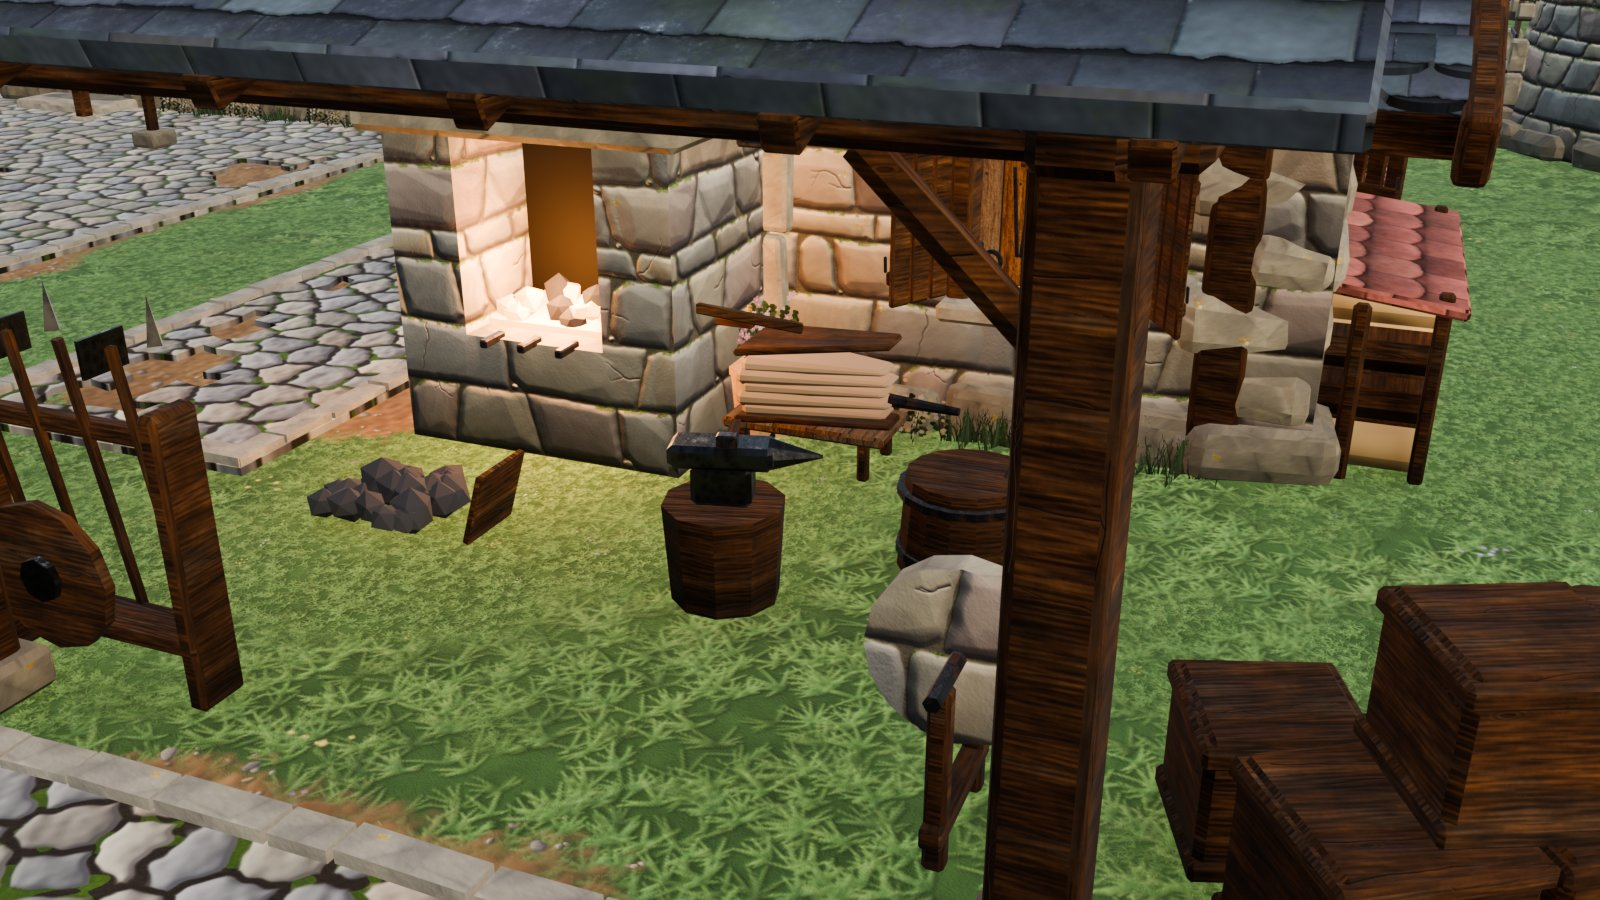
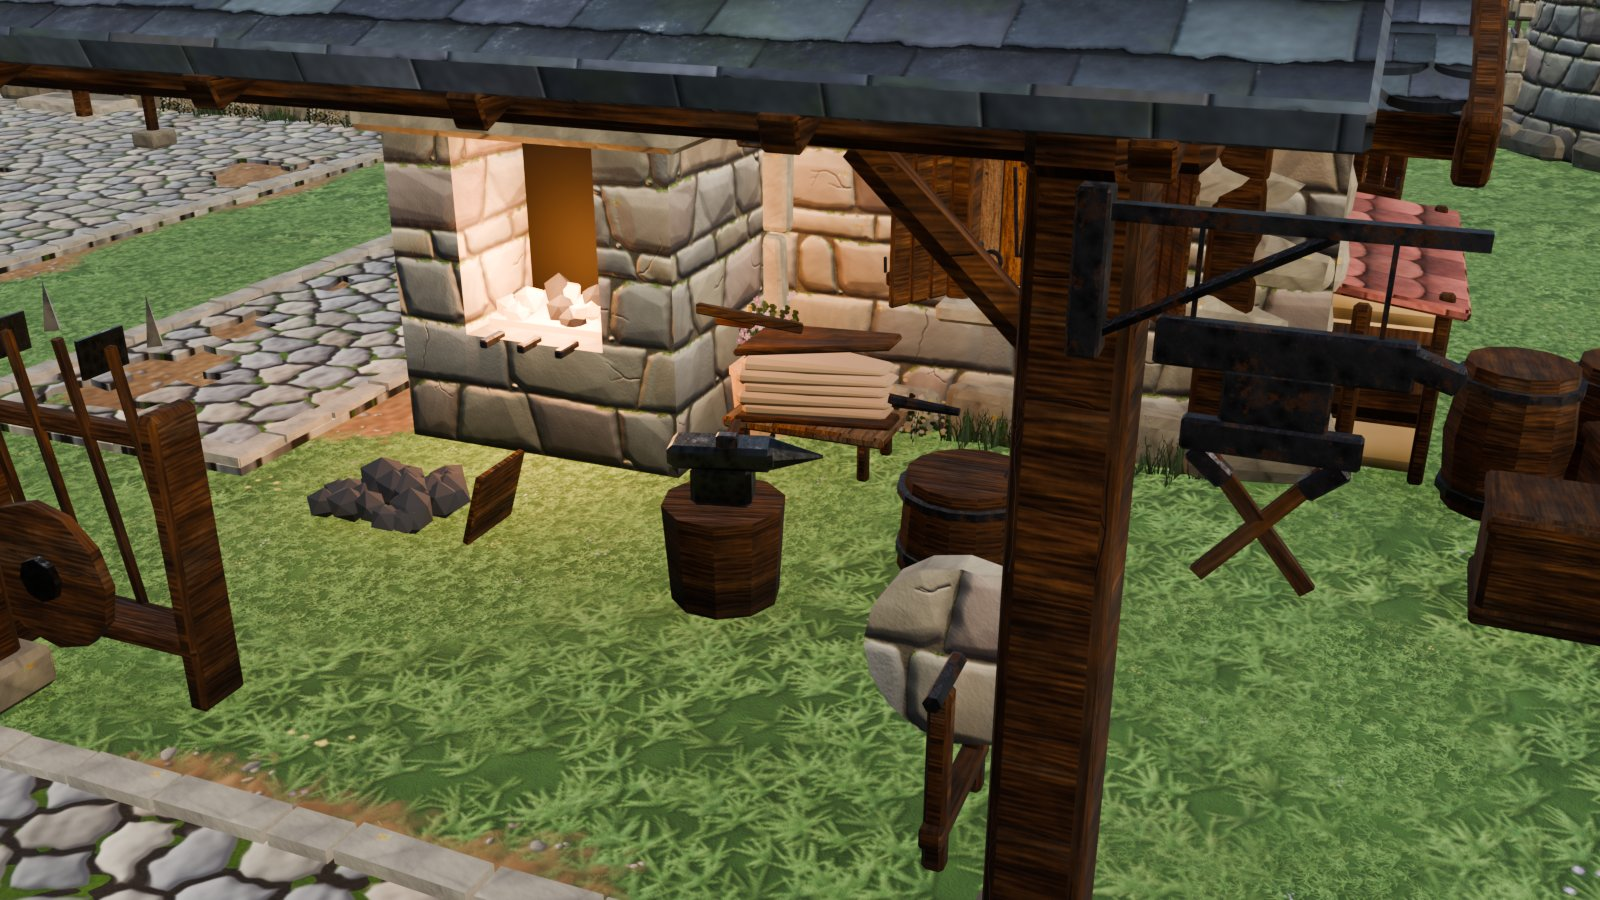
Wider gatehouse: 3.5 m passage clear of the flanking towers
The flanking towers stood 3 m from the gate axis and pinched the passage
mouth to 2.07 m; the leaves opened only to 78 degrees and the portcullis
hung 2.2 m above the road.

- SM_VK_Gatehouse_Block is 4 cells wide (12 m), towers at +-4.4 m,
  passage 3.5 m (hw 1.75); sizes live in the GH_* constants.
- Leaves open flat against the vault (90 deg), portcullis raised to
  3.5 m; portcullis and leaves follow the passage width.
- def_dress_gatehouse: 4 timber modules, hip/mid/mid/hip roof, cone caps
  on the moved towers; build_townwall_demo shifted to fit.
- Valley map: gate apron widened to cols 39-44, construction sites moved
  3 m east, smithy crate moved to the yard by the wall, and the hanging
  SmithSign no longer dropped by town_fix_levels.

Ray casts: >= 3.34 m clear at every height, 3.52 m under the portcullis.

Changed region(s): [[0.6562, 0.1867, 1.0, 1.0]]

diff --git a/src/modules/vk_mod_defence.py b/src/modules/vk_mod_defence.py
@@ -748,13 +748,19 @@ def def_townwall_tower_round(k):
     _ico(k,(0,0,12.35),0.12,BRONZE,sub=1)
 
 # ---------------------------------------------------------------- gatehouse
+GH_HX=6.0        # half width of the gatehouse block (4 cells)
+GH_HW=1.75       # half width of the passage (3.5 m vault, 3.3 m clear between the open leaves)
+GH_SP=2.8        # arch spring height (crown GH_SP+GH_HW)
+GH_TX=4.4        # flanking tower centres at x +-GH_TX: clear of the passage, overhanging the block ends a little
+GH_RAISE=3.6     # raised portcullis: its bottom bars show under the arch, 3.5 m above the road
+
 def def_gatehouse_block(k):
-    """3x2-cell gatehouse centred on the wall line: masonry to 6.2 (x -4.5..4.5, y -3..3), passage along Y
-       (hw 1.6, spring 2.8, crown 4.4), portcullis slot at y -2.4, half-round towers r 1.8 at (+-3,-3) to 9.0
-       (cap them with Roof_Cone_R2). Timber upper storey + roofs are placed by build_townwall_demo."""
-    hw=1.6; sp=2.8; top=6.05; Y0,Y1=-3.0,3.0
+    """4x2-cell gatehouse centred on the wall line: masonry to 6.2 (x -6..6, y -3..3), passage along Y
+       (hw 1.75, spring 2.8, crown 4.55), portcullis slot at y -2.4, half-round towers r 1.8 at (+-4.4,-3) to 9.0
+       (cap them with Roof_Cone_R2). Timber upper storey + roofs are placed by def_dress_gatehouse."""
+    hw=GH_HW; sp=GH_SP; top=6.05; Y0,Y1=-3.0,3.0; HX=GH_HX; TX=GH_TX
     b=set(k.bm.verts)
-    stone_panel(k,-4.5,-hw,-1.5,top,Y0,Y1); stone_panel(k,hw,4.5,-1.5,top,Y0,Y1)
+    stone_panel(k,-HX,-hw,-1.5,top,Y0,Y1); stone_panel(k,hw,HX,-1.5,top,Y0,Y1)
     arch_cut_panels(k,hw,sp,top,Y0,Y1,STONE)
     def_tw_batter(def_new_verts(k,b),face=Y0,amt=0.3)
     arch_soffit(k,hw,sp,Y0,Y1,ASHLAR)
@@ -771,35 +777,35 @@ def def_gatehouse_block(k):
         k.box((math.cos(a)*r,Y1+0.05+(0.04 if ks else 0),sp+math.sin(a)*r),(0.36 if ks else 0.3,0.24,0.56 if ks else 0.42),
               STONE_BLOCK,rot=(0,-(a-math.pi/2),0),bevel=0.05,segs=2)
     for s in (-1,1): k.box((s*(hw+0.2),Y1+0.05,sp-0.1),(0.5,0.26,0.2),STONE_BLOCK,bevel=0.04)       # imposts
-    # outer face arch: only the voussoirs clear of the flanking towers
+    # outer face arch (the flanking towers stand clear of it)
     for i in range(11):
         a=math.pi*(i+0.5)/11; r=hw+0.19
-        if abs(math.cos(a)*r)>1.05: continue
         k.box((math.cos(a)*r,Y0-0.04,sp+math.sin(a)*r),(0.3 if i!=5 else 0.36,0.2,0.42 if i!=5 else 0.56),STONE_BLOCK,rot=(0,-(a-math.pi/2),0),bevel=0.05,segs=2)
+    for s in (-1,1): k.box((s*(hw+0.2),Y0-0.05,sp-0.1),(0.5,0.26,0.2),STONE_BLOCK,bevel=0.04)
     # corbel course under the jettied timber storey (front and back)
     for yy,sg in ((Y0,-1),(Y1,1)):
-        for i in range(18):
-            x=-4.25+0.5*i
+        for i in range(int(4*HX)):
+            x=-HX+0.25+0.5*i
             if abs(x)>hw+0.3 or yy>0:
                 k.box((x,yy+sg*0.12,5.85),(0.26,0.26,0.3),STONE_BLOCK,bevel=0.03)
-        k.box((0,yy+sg*0.05,5.62),(9.0,0.12,0.16),ASHLAR,bevel=0.02)
+        k.box((0,yy+sg*0.05,5.62),(2*HX,0.12,0.16),ASHLAR,bevel=0.02)
     # landings for the end-wall doors of the timber storey (door at y 1..2 above the 6.2 walk)
     for s in (-1,1):
-        k.box((s*4.85,1.5,6.12),(0.8,1.3,0.16),ASHLAR,bevel=0.03)
+        k.box((s*(HX+0.35),1.5,6.12),(0.8,1.3,0.16),ASHLAR,bevel=0.03)
         for yy in (1.05,1.95):
-            k.box((s*4.7,yy,5.85),(0.5,0.24,0.3),STONE_BLOCK,bevel=0.03)
+            k.box((s*(HX+0.2),yy,5.85),(0.5,0.24,0.3),STONE_BLOCK,bevel=0.03)
     # quoins on the front corners
     for s in (-1,1):
         z=0.1; i=0; rnd=random.Random(40+s)
         while z<5.4:
             h=rnd.uniform(0.42,0.55); zc=z+h/2; bt=0.3*max(0.0,min(1.0,(1.8-zc)/1.8))
             sx,sy=(0.9,0.5) if i%2==0 else (0.5,0.9)
-            rock(k,(s*(4.5-sx/2+0.06),Y1-sy/2+0.06,zc),(sx,sy,h-0.04),seed=960+i+s*50,tilt=0.015,segs=1)
+            rock(k,(s*(HX-sx/2+0.06),Y1-sy/2+0.06,zc),(sx,sy,h-0.04),seed=960+i+s*50,tilt=0.015,segs=1)
             z+=h; i+=1
-    def_tw_plinth(k,-4.5,-1.65,face=Y0-0.3,seed=41); def_tw_plinth(k,1.65,4.5,face=Y0-0.3,seed=43)
+    def_tw_plinth(k,-HX,-hw-0.05,face=Y0-0.3,seed=41); def_tw_plinth(k,hw+0.05,HX,face=Y0-0.3,seed=43)
     # flanking half-round towers
     for s in (-1,1):
-        cx,cy=s*3.0,Y0
+        cx,cy=s*TX,Y0
         def rf(z): return 1.8+0.25*max(0.0,min(1.0,(1.8-z)/1.8))
         zs=[-1.5,0.0,0.6,1.2,1.8,3.0,4.4,5.8,7.2,8.2,8.8]
         # half cylinder toward -Y (angles pi..2pi) built as a full ring of 16 (back half hidden in the block)
@@ -813,13 +819,14 @@ def def_gatehouse_block(k):
                 a=math.radians(d if s<0 else -180-d); def_slit(k,a,rf(z),z,h=0.8,c=(cx,cy))
         for i in range(12):
             a=math.pi+math.pi*(i+0.5)/12; rock(k,(cx+math.cos(a)*2.1,cy+math.sin(a)*2.1,0.12),(0.42,0.8,0.42),seed=990+i+s*20,rot_z=a,tilt=0.05,segs=1)
-    for s in (-1,1): def_torch(k,s*1.12,Y0-0.35,3.2,out=(-s*0.3,-1,0))
+    for s in (-1,1): def_torch(k,s*(hw+0.45),Y0-0.35,3.2,out=(-s*0.3,-1,0))
 
 def def_gatehouse_portcullis(k):
-    """IRON portcullis for the gatehouse passage (3.3 wide x 4.6), origin at the bottom centre; slides on local Z"""
-    W=3.3; H=4.6
-    for i in range(12):
-        x=-W/2+0.15+i*0.3
+    """IRON portcullis for the gatehouse passage (3.6 wide x 4.8), origin at the bottom centre; slides on local Z"""
+    W=2*GH_HW+0.1; H=4.8
+    nb=int(round((W-0.3)/0.3))+1
+    for i in range(nb):
+        x=-(nb-1)*0.15+i*0.3
         k.box((x,0,H/2+0.12),(0.08,0.08,H-0.24),IRON,bevel=0.012)
         _cyl(k,(x,0,0.08),0.045,0.0,0.24,4,IRON,rot=Matrix.Rotation(math.pi,4,"X"))
     for j in range(15):
@@ -829,9 +836,9 @@ def def_gatehouse_portcullis(k):
     for x in (-W/2,W/2): k.box((x,0,H/2),(0.12,0.14,H),IRON,bevel=0.015)
 
 def def_gatehouse_gateleaf(k):
-    """one oak gate leaf for the gatehouse passage; hinge at the origin, leaf along +X (1.6), arched top
-       (spring 2.8, crown 4.4). Symmetric front/back: the other leaf is the same piece rotated 180."""
-    hw=1.6; sp=2.8; th=0.16
+    """one oak gate leaf for the gatehouse passage; hinge at the origin, leaf along +X (1.75), arched top
+       (spring 2.8, crown 4.55). Symmetric front/back: the other leaf is the same piece rotated 180."""
+    hw=GH_HW; sp=GH_SP; th=0.16
     n=6; w=(hw-0.04)/n
     for i in range(n):
         x0=0.02+i*w; x1=x0+w-0.012; xm=(x0+x1)/2
@@ -1313,56 +1320,59 @@ def build_palisade_demo(coll,origin,seed=0):
     P("SM_VK_Prop_TrainingDummy",2.0,-1.0,0,-20); P("SM_VK_Prop_TrainingDummy",4.2,0.4,0,15)
 
 def def_dress_gatehouse(P,gx,st):
-    """timber storey (6.2 -> 9.0), hip/mid/hip roof, cone caps, portcullis + leaves for a Gatehouse_Block at x=gx"""
-    Z=DEF_WALK
-    P("SM_VK_Gatehouse_Portcullis",gx,-2.4,2.2,0,slide_axis="local Z",travel=4.4)
-    P("SM_VK_Gatehouse_GateLeaf",gx-1.6,-1.2,0,78,hinge_axis="local Z")
-    P("SM_VK_Gatehouse_GateLeaf",gx+1.6,-1.2,0,180-78,hinge_axis="local Z")
-    P("SM_VK_Wall_Timber_Window",gx,-3,Z,0,st)
-    for i,x in enumerate((gx-3,gx,gx+3)):
-        P(("SM_VK_Wall_Timber_X","SM_VK_Wall_Timber_Window","SM_VK_Wall_Timber_K")[i],x,3,Z,180,st)
-    P("SM_VK_Wall_Timber_Door",gx-4.5,1.5,Z,-90,st); P("SM_VK_Wall_Timber",gx-4.5,-1.5,Z,-90,st)
-    P("SM_VK_Wall_Timber_Door",gx+4.5,1.5,Z,90,st); P("SM_VK_Wall_Timber",gx+4.5,-1.5,Z,90,st)
-    P("SM_VK_Corner_Timber",gx-4.5,3,Z,-90,st); P("SM_VK_Corner_Timber",gx+4.5,3,Z,180,st)
+    """timber storey (6.2 -> 9.0), hip/mid/mid/hip roof, cone caps, portcullis (raised) + leaves (open flat against
+       the vault) for a Gatehouse_Block at x=gx. travel = how far the portcullis drops to close."""
+    Z=DEF_WALK; HX=GH_HX
+    P("SM_VK_Gatehouse_Portcullis",gx,-2.4,GH_RAISE,0,slide_axis="local Z",travel=GH_RAISE)
+    P("SM_VK_Gatehouse_GateLeaf",gx-GH_HW,-1.2,0,90,hinge_axis="local Z")
+    P("SM_VK_Gatehouse_GateLeaf",gx+GH_HW,-1.2,0,90,hinge_axis="local Z")
+    for x in (gx-1.5,gx+1.5): P("SM_VK_Wall_Timber_Window",x,-3,Z,0,st)
+    for i,x in enumerate((gx-4.5,gx-1.5,gx+1.5,gx+4.5)):
+        P(("SM_VK_Wall_Timber_X","SM_VK_Wall_Timber_Window","SM_VK_Wall_Timber_Window","SM_VK_Wall_Timber_X")[i],x,3,Z,180,st)
+    P("SM_VK_Wall_Timber_Door",gx-HX,1.5,Z,-90,st); P("SM_VK_Wall_Timber",gx-HX,-1.5,Z,-90,st)
+    P("SM_VK_Wall_Timber_Door",gx+HX,1.5,Z,90,st); P("SM_VK_Wall_Timber",gx+HX,-1.5,Z,90,st)
+    P("SM_VK_Corner_Timber",gx-HX,3,Z,-90,st); P("SM_VK_Corner_Timber",gx+HX,3,Z,180,st)
     RT=Z+H2
-    P("SM_VK_Roof_Hip",gx-3,0,RT,180,st); P("SM_VK_Roof_Mid",gx,0,RT,0,st); P("SM_VK_Roof_Hip",gx+3,0,RT,0,st)
-    for s in (-1,1): P("SM_VK_Roof_Cone_R2",gx+3*s,-3,RT,0,st)
+    P("SM_VK_Roof_Hip",gx-4.5,0,RT,180,st); P("SM_VK_Roof_Mid",gx-1.5,0,RT,0,st)
+    P("SM_VK_Roof_Mid",gx+1.5,0,RT,0,st); P("SM_VK_Roof_Hip",gx+4.5,0,RT,0,st)
+    for s in (-1,1): P("SM_VK_Roof_Cone_R2",gx+GH_TX*s,-3,RT,0,st)
     ban=def_pick("SM_VK_Banner_Wall",None)          # projecting banners on the town side, at the module seams
-    for bx in (gx-1.5,gx+1.5): P(ban,bx,3.18,Z+H2,180,{"cloth":"Red"})
+    for bx in (gx-3,gx+3): P(ban,bx,3.18,Z+H2,180,{"cloth":"Red"})
 
 def build_townwall_demo(coll,origin,seed=0,style=None):
     """town-wall section (outer face -Y): convex corner + return, 3 stacked stair modules landing on the
-       gatehouse (x -3..6), timber-storey gatehouse with portcullis and leaves, round flanking tower on vertex 12,
-       a breach (ruin), concave corner at vertex 21 and a run going -Y with a terrain Step."""
+       gatehouse (x -3..9), timber-storey gatehouse with portcullis and leaves, round flanking tower on vertex 15,
+       a breach (ruin), concave corner at vertex 24 and a run going -Y with a terrain Step."""
     st=style or {"roof":"Slate"}
     P=def_placer(coll,origin)
     W="SM_VK_TownWall_Straight"
+    gx=-3+GH_HX; E=gx+GH_HX-6.0           # gatehouse axis; E shifts everything east of it (the block ended at x 6 when it was 3 cells)
     P("SM_VK_TownWall_Corner_Out",-12,0,0,0)
     for y in (1.5,4.5): P(W,-12,y,0,-90)
     for i,x in enumerate((-10.5,-7.5,-4.5)):
         P(W,x,0,0,0); P("SM_VK_TownWall_Stair",x,0,i*2.067,0)
-    P("SM_VK_Gatehouse_Block",1.5,0,0,0)
-    def_dress_gatehouse(P,1.5,st)
-    for x in (7.5,10.5,13.5,19.5): P(W,x,0,0,0)
-    P("SM_VK_TownWall_Tower_Round",12,0,0,0)
-    P("SM_VK_TownWall_Ruin",16.5,0,0,0)
-    P("SM_VK_TownWall_Corner_In",21,0,0,180)
-    P(W,21,-1.5,0,-90); P("SM_VK_TownWall_Step",21,-4.5,0,-90); P(W,21,-7.5,DEF_LVL,-90)
+    P("SM_VK_Gatehouse_Block",gx,0,0,0)
+    def_dress_gatehouse(P,gx,st)
+    for x in (7.5,10.5,13.5,19.5): P(W,x+E,0,0,0)
+    P("SM_VK_TownWall_Tower_Round",12+E,0,0,0)
+    P("SM_VK_TownWall_Ruin",16.5+E,0,0,0)
+    P("SM_VK_TownWall_Corner_In",21+E,0,0,180)
+    P(W,21+E,-1.5,0,-90); P("SM_VK_TownWall_Step",21+E,-4.5,0,-90); P(W,21+E,-7.5,DEF_LVL,-90)
     # circuit ends: a round tower caps the raised east run (walk doors on +-Y, ground door toward the town, +X);
     # the west return hands over to the old palisade it replaces (upgrade story palisade -> town wall)
-    P("SM_VK_TownWall_Tower_Round",21,-9,DEF_LVL,-90)
+    P("SM_VK_TownWall_Tower_Round",21+E,-9,DEF_LVL,-90)
     # demo-only stand-in terrain: the Step climbs a 1.5 m slope onto a plateau (the terrain kit replaces these)
     for x in (16.5,19.5,22.5,25.5):
-        P("SM_VK_Def_Standin_Ramp",x,-4.5,DEF_LVL,-90)
-        for y in (-7.5,-10.5,-13.5): P("SM_VK_Def_Standin_Plateau",x,y,DEF_LVL,0)
+        P("SM_VK_Def_Standin_Ramp",x+E,-4.5,DEF_LVL,-90)
+        for y in (-7.5,-10.5,-13.5): P("SM_VK_Def_Standin_Plateau",x+E,y,DEF_LVL,0)
     P("SM_VK_Palisade_Post",-12,6.1,0,0)
     for y in (7.5,10.5,13.5): P("SM_VK_Palisade_Straight",-12,y,0,-90)
     P("SM_VK_Palisade_Post",-12,15,0,90)
     # dressing
-    P("SM_VK_Deco_Ivy_B",7.5,-0.78,0,0); P("SM_VK_Deco_Ivy_A",-7.5,-0.78,0,0); P("SM_VK_Deco_Ivy_A",19.5,-0.78,0,0)
+    P("SM_VK_Deco_Ivy_B",7.5+E,-0.78,0,0); P("SM_VK_Deco_Ivy_A",-7.5,-0.78,0,0); P("SM_VK_Deco_Ivy_A",19.5+E,-0.78,0,0)
     P("SM_VK_Prop_WeaponRack",-10.4,3.0,0,180); P("SM_VK_Prop_BarrelStack",-8.0,3.2,0,0)
-    P("SM_VK_Prop_Cart",3.2,-8.5,0,-25); P("SM_VK_Prop_LampPost",-2.4,4.3,0,180); P("SM_VK_Prop_LampPost",5.4,4.3,0,180)
-    P("SM_VK_Prop_Crates",8.2,2.6,0,10)
+    P("SM_VK_Prop_Cart",gx+1.7,-8.5,0,-25); P("SM_VK_Prop_LampPost",gx-3.9,4.3,0,180); P("SM_VK_Prop_LampPost",gx+3.9,4.3,0,180)
+    P("SM_VK_Prop_Crates",8.2+E,2.6,0,10)
 
 def build_tower_house(coll,origin,kind="fortified",seed=0):
     """2x2-cell stone tower house, 4 storeys (walls to 11.4). kind="fortified": crenellated parapet on corbels,

diff --git a/src/maps/vk_town_map.py b/src/maps/vk_town_map.py
@@ -29,7 +29,7 @@ def town_grid(seed=11):
     # --- town plateau (level 2) and the west bench
     L[24:47,20:64]=2
     L[24:34,0:20]=2
-    L[23,40:44]=2                                     # level-2 apron under the gatehouse front
+    L[23,GATE_I-3:GATE_I+3]=2                         # level-2 apron under the gatehouse front and its flanking towers
     # --- west ridge: level 3 (quarry hill level 4 at i 11..18)
     L[34:47,0:20]=3
     L[34:47,11:19]=4
@@ -77,12 +77,12 @@ def town_grid(seed=11):
     for (j,i) in zip(*np.nonzero(G.ramp)):
         G.stiff[j,i]=True; di,dj=((0,1),(1,0),(0,-1),(-1,0))[G.ramp[j,i]-1]; G.stiff[j+dj,i+di]=True
     G.stiff[G.ground==2]=True
-    G.stiff[23,40:44]=True; G.stiff[POSTERN_J,11:WALL_W]=True
+    G.stiff[23,GATE_I-3:GATE_I+3]=True; G.stiff[POSTERN_J,11:WALL_W]=True
     return G
 
 # ---------------------------------------------------------------- placement with footprint checks
 PROP_RE=re.compile(r"^SM_VK_(Prop_|Pile_)")
-WALL_MOUNTED=("Prop_Sign","Prop_Lantern","Prop_Festoon","Prop_Banner","Prop_Bunting","Prop_Wreath","Prop_Shelf","FlowerBox","Window","Hanging","Awning","Chimney")
+WALL_MOUNTED=("Prop_Sign","SmithSign","Prop_Lantern","Prop_Festoon","Prop_Banner","Prop_Bunting","Prop_Wreath","Prop_Shelf","FlowerBox","Window","Hanging","Awning","Chimney")
 DOOR_PARTS=("Step","Stair","Doormat","Porch","Mat","Planter","FlowerPot")      # belong in front of a door: never slid away
 SPANNING=("TreadwheelCrane","Crane","Bridge","Pier","Jetty","Chute","Sluice")   # deliberately span levels
 FLOATING=("Barge","Rowboat","Boat","Buoy","Raft")
@@ -220,7 +220,7 @@ def town_walls(T):
     towers_x=[3*i for i in (29,36,50,57)]; towers_y=[3*j for j in (33,39)]
     for i in range(WALL_W,WALL_E):
         x=3*i+1.5
-        if abs(x-gx)>3: T.P(Wm,x,ys,0,z=zt,occupy=True)
+        if abs(x-gx)>GH_HX: T.P(Wm,x,ys,0,z=zt,occupy=True)
         T.P(Wm,x,yn,180,z=zt,occupy=True)
     for j in range(WALL_S,WALL_N):
         y=3*j+1.5
@@ -309,7 +309,7 @@ def town_meadow(T):
     T.build("apiary",build_apiary,3*23+1.5,3*21+1.5,0,seed=4)
     T.build("windmill",build_windmill,3*33,3*22,0)
     T.build("granary",build_granary,3*38,3*21,0,seed=5)
-    for k,(x,stage) in enumerate(((138.0,0),(153.5,1),(169.0,2))):
+    for k,(x,stage) in enumerate(((141.0,0),(156.5,1),(172.0,2))):      # site0 clears the gate apron (cols 39-44)
         T.build(f"site{stage}",build_construction_site,x,3*22,0,stage=stage,seed=10+k)
 
 def town_west(T):
@@ -348,7 +348,11 @@ def town_inside(T):
     doors=sorted((o for o in new if is_door(o)),key=lambda o: math.dist(door_front_cell(T,o),(47,35)))
     if doors: pave(T,door_front_cell(T,doors[0]),(47,35),own="chapel")
     # landmarks: the smithy's glowing forge greets you right inside the gate, the inn fronts the plaza
-    T.build("smithy",build_smithy,135.0,83.5,-90,seed=33)
+    def smithy(c,o,**kw):                              # its crate stack goes to the yard by the wall, next to the woodpile:
+        before=set(c.all_objects); build_smithy(c,o,**kw)   # at the canopy's front corner it touched the gatehouse
+        for ob in set(c.all_objects)-before:
+            if base_name(ob)=="SM_VK_Prop_Crates": ob.location.x=TOWN_ORIGIN[0]+133.4; ob.location.y=77.9; ob.rotation_euler.z=math.radians(4)
+    T.build("smithy",smithy,135.0,83.5,-90,seed=33)
     T.build("inn",build_inn,102.0,97.5,90,seed=34)
     # plaza dressing (lamps come after the infill so they can dodge porches and eaves)
     px,py=3*GATE_I,3*33+1.5

diff --git a/docs/VALLEY_MAP.md b/docs/VALLEY_MAP.md
@@ -44,9 +44,9 @@ The PNG path is returned; look at it with the **Read** tool.
 | South land | 1 | rows 0–9 | Hamlet in the west (i 2–24): longhouse, 3 hovels, pig sty, sheepfold, crop plots. Settler camp (i 29–33). Sawpit and stockpile (i 35–38). Palisade outpost (i 49–57). Barracks training yard (i 59–65). |
 | River | 0 | water rows 12–15, sandy banks rows 10–11 and 16–17 | Stone bridge on the main road (x ≈ 1626). Wooden footbridge on the west road (x ≈ 1530, cells 9–10), with bank ramps at rows 10 and 17. Watermill on a level-0 inlet (i 23–29, rows 16–19), with a ramp up to the meadow at i 24–25, row 19. Quay with a barge (i 33–37). Lavoir and smokehouse on the north bank. A river road on row 9 links the footbridge lane to the main road. |
 | Lake | 0 | rounded basin, i 58–71, rows 5–18; water ends one sand cell before the east edge | Fisher hut with pier on the south shore. Shore ramp up to the south land at i 66–67, row 5. |
-| North meadow | 1 | rows 18–23 | Tannery, pottery, dyers yard, apiary, windmill, granary. Construction sites at stages 0/1/2 (i 45–58). |
+| North meadow | 1 | rows 18–23 | Tannery, pottery, dyers yard, apiary, windmill, granary. Construction sites at stages 0/1/2 (i 45–60). |
 | West bench | 2 | i 0–19, rows 24–33 | Log cabin, woodcutter, forester, charcoal burner. Mine portal against the level-3 ridge. Quarry pit cut into the hill between level-4 shoulders (i 12–13 and 16–17, rows 31–33), with its mouth kept clear; treadwheel crane on the ridge top. A stone stair climbs to the ridge at i 9, at the end of the west road, and a second stair (i 10, row 36) goes on up to the level-4 quarry hill. A lane on row 30 leads east to the west postern. |
-| Walled town plateau | 2 | i 20–63, rows 24–46 | Walls on vertex lines y=75, 138 and x=1569, 1689, with round towers. The gatehouse sits at x=1626, centred on the road, on a level-2 apron (row 23). The gate ramp is at row 22. The west postern (`SM_VK_TownWall_Postern`) is at row 30. Contents: cobbled main street and plaza (separate paving mesh with curbs and missing-stone patches); the landmark **smithy** right inside the gate (x ≈ 1635, y ≈ 83.5, facing the main street); the landmark **inn** on the plaza's west side (x ≈ 1602, y ≈ 97.5); plaza with market cross, notice board and baker/fishmonger/potter/draper stalls; skyline street (north); the west quarter, where the merchant house, gable-front townhouse and corner house face north onto the postern street (row 30); fortified tower house; terrace (south-east, facing the row-29 street); festival green; brewery; chapel facing the plaza across a cobbled forecourt (rows 36–38); about 10 infill houses with district roof palettes; kitchen gardens. |
+| Walled town plateau | 2 | i 20–63, rows 24–46 | Walls on vertex lines y=75, 138 and x=1569, 1689, with round towers. The gatehouse (4 cells wide, 3.5 m passage, leaves open flat, portcullis raised) sits at x=1626, centred on the road, on a level-2 apron (row 23, i 39–44). The gate ramp is at row 22. The west postern (`SM_VK_TownWall_Postern`) is at row 30. Contents: cobbled main street and plaza (separate paving mesh with curbs and missing-stone patches); the landmark **smithy** right inside the gate (x ≈ 1635, y ≈ 83.5, facing the main street); the landmark **inn** on the plaza's west side (x ≈ 1602, y ≈ 97.5); plaza with market cross, notice board and baker/fishmonger/potter/draper stalls; skyline street (north); the west quarter, where the merchant house, gable-front townhouse and corner house face north onto the postern street (row 30); fortified tower house; terrace (south-east, facing the row-29 street); festival green; brewery; chapel facing the plaza across a cobbled forecourt (rows 36–38); about 10 infill houses with district roof palettes; kitchen gardens. |
 | North ridge | 3–5 | rows 47–55 | Forest. |
 | West ridge | 3–4 | i 0–19, rows 34–46 | Forest. |
 

diff --git a/HANDOFF.md b/HANDOFF.md
@@ -64,7 +64,7 @@ Common commands: [docs/KIT_README.md §3](docs/KIT_README.md). Quick checks afte
 relief faces (face normal z between −0.1 and 0), plus the same small downward face on five ramps (open issue 13).
 A first hit with normal z below about −0.2 anywhere else would be a real hole.
 Valley build log (`T.log`) known entries: watermill and smokehouse overhang the bank slightly, `WS_skyline_Road`
-touches a tower (the road strip is deleted right after), one smithy crate touches the gatehouse.
+touches a tower (the road strip is deleted right after). `fix_levels dropped` lists a cart and the creels.
 
 ## 4. What exists (state at handoff)
 
@@ -74,6 +74,8 @@ touches a tower (the road strip is deleted right after), one smithy crate touche
   industry, defence; town-wall postern; landmarks `build_smithy` (9 m forge stack, glowing hearth, open workshop,
   bellows, tool wall, sign) and `build_inn` (3 storeys, lit windows, tankard sign, ale cask, beer garden); 8 market
   stall trades; lit-window style; worn/fresh shutter styles; roof palette + per-instance brightness jitter.
+  Gatehouse (`SM_VK_Gatehouse_*`, sizes in the `GH_*` constants of `vk_mod_defence`): 4 cells wide, 3.5 m passage
+  (3.3 m clear between the open leaves), flanking towers at ±4.4 m, portcullis raised to 3.5 m above the road.
 - **Nature (`VK_NaturePieces`, 39):** oaks, apple, cherry blossom, birches, willow, pines, dead tree, sapling, bushes,
   plants, mushrooms, rocks, stump, log, pond. Leaf atlas `T_VK_Leaves_*` (cherry cell repainted in hero-oak style).
 - **Terrain (`vk_terrain`):** dual-grid marching squares, 3 m cells, 1.5 m levels; cliff/shore tiles with A/B/C
@@ -92,10 +94,14 @@ touches a tower (the road strip is deleted right after), one smithy crate touche
   the terrain demo (`vk_terrain_demo`, 32×24 at 1200,0). Both are rebuilt entirely by code.
 - **Lighting (renders only):** `VK_Sun` key light + shadowless `VK_Fill`.
 
-## 5. Open issues and ideas (none started)
+## 5. Open issues and ideas (none started unless marked done)
 
-1. Gatehouse passage is only ~2.1 m clear (needs a wider `SM_VK_Gatehouse_Block`).
-2. A smithy crate (`SM_VK_Prop_Crates` from `build_smithy`) touches the gatehouse — move it.
+1. ~~Gatehouse passage is only ~2.1 m clear.~~ Done 2026-09-24: the block is 4 cells wide and the towers stand clear
+   of the passage (ray casts: ≥ 3.34 m clear at every height, 3.5 m headroom under the portcullis). The gate apron is
+   now cols 39–44, so the construction sites moved 3 m east.
+2. ~~A smithy crate touches the gatehouse.~~ Done 2026-09-24: `town_inside` moves it to the yard by the wall, next to
+   the woodpile. Also fixed: `town_fix_levels` had dropped the hanging `SM_VK_Prop_SmithSign` on every build (its
+   height read as level 4); it is now in `WALL_MOUNTED`.
 3. River's west end is open at the map edge; the lake still reads as a rounded rectangle.
 4. Worn-ground pads follow cell squares (the ground-control map has one texel per cell).
 5. Fishmonger's ice tray reads very white from above.

diff --git a/docs/PIECES.md b/docs/PIECES.md
@@ -434,9 +434,9 @@ Total: 482 masters.
 | `SM_VK_Def_StoneUp_Door` | 3.00 × 1.01 × 2.80 | 1,211 | 52 |
 | `SM_VK_Def_StoneUp_Slit` | 3.00 × 0.68 × 2.80 | 458 | 52 |
 | `SM_VK_Def_StoneUp_Window` | 3.00 × 1.10 × 2.80 | 1,146 | 52 |
-| `SM_VK_Gatehouse_Block` | 10.64 × 8.57 × 10.50 | 11,956 | 52 |
-| `SM_VK_Gatehouse_GateLeaf` | 1.64 × 0.42 × 4.34 | 2,012 | 52 |
-| `SM_VK_Gatehouse_Portcullis` | 3.55 × 0.21 × 4.74 | 1,392 | 52 |
+| `SM_VK_Gatehouse_Block` | 13.50 × 8.57 × 10.50 | 13,852 | 52 |
+| `SM_VK_Gatehouse_GateLeaf` | 1.79 × 0.42 × 4.49 | 2,012 | 52 |
+| `SM_VK_Gatehouse_Portcullis` | 3.72 × 0.21 × 4.94 | 1,392 | 52 |
 | `SM_VK_LowWall_GateArch` | 3.38 × 0.77 × 4.25 | 2,608 | 52 |
 | `SM_VK_Palisade_Diag` | 4.27 × 0.51 × 4.70 | 1,838 | 52 |
 | `SM_VK_Palisade_Gate` | 4.12 × 0.94 × 6.10 | 2,372 | 52 |
